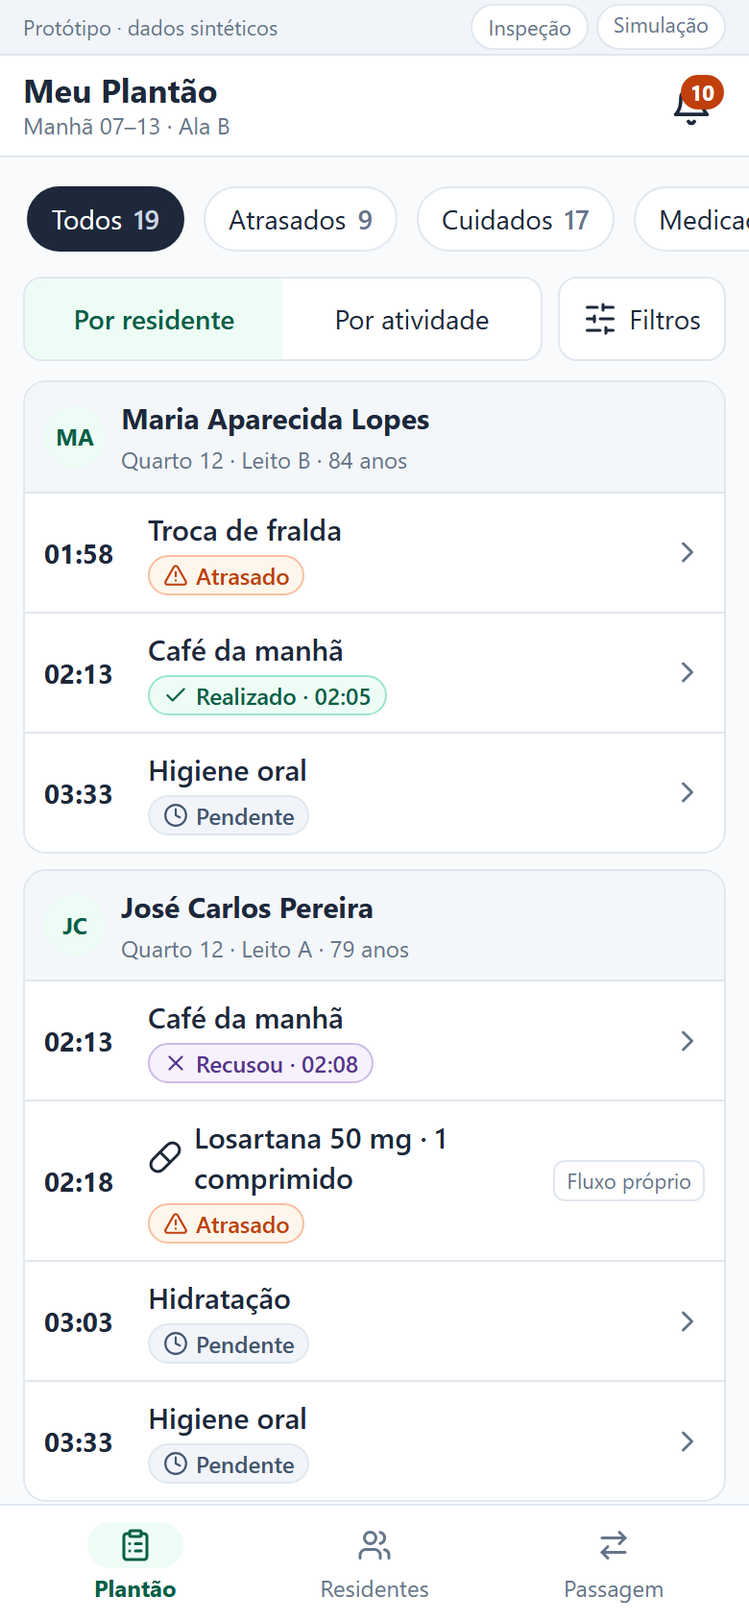
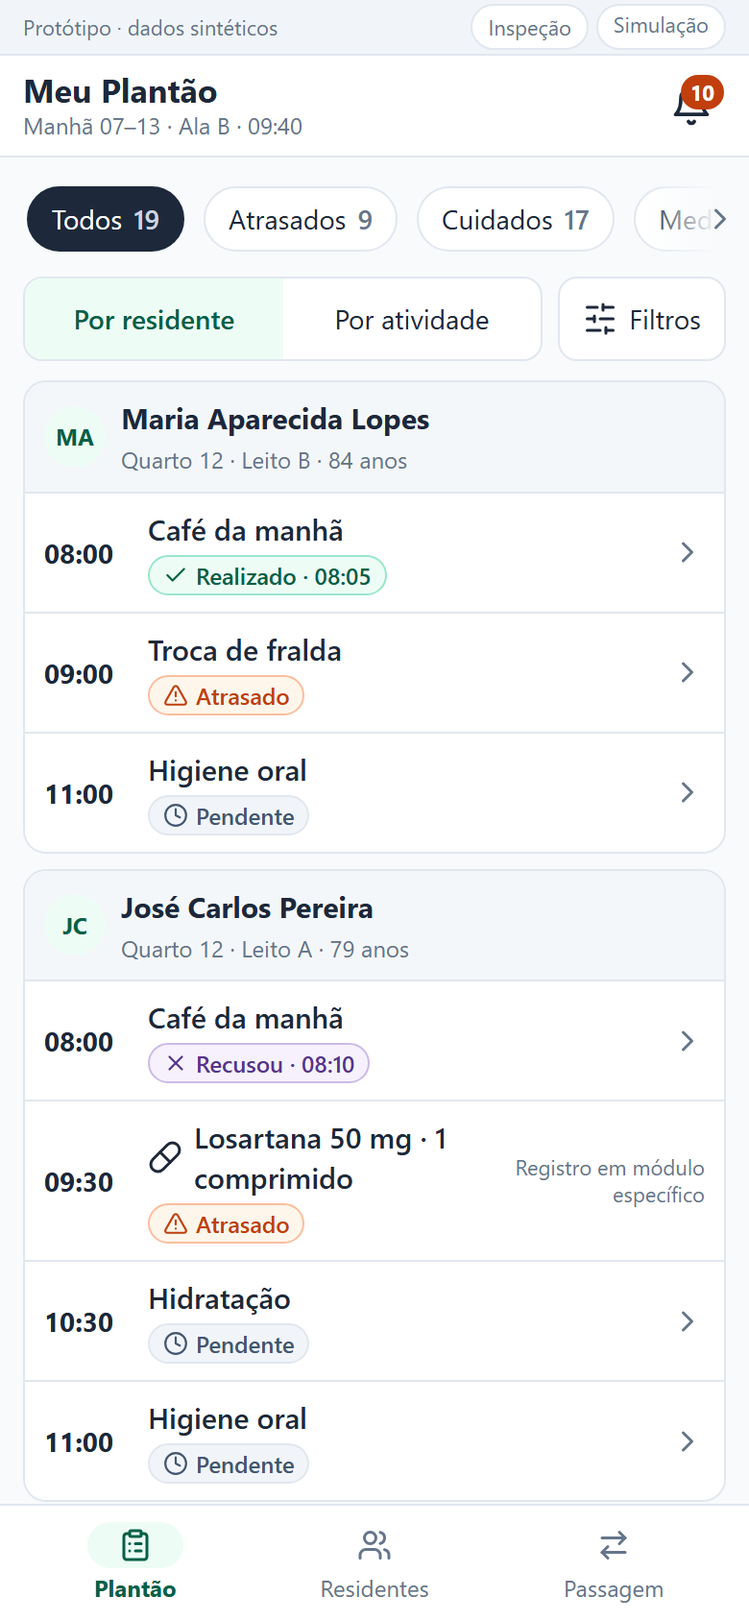
fix(prototipo): ajustes finais de texto, relógio simulado, medicação e passagem (#135)
Quarto e leito em linha própria no registro; "Resultado obrigatório";
"Informe quando o cuidado aconteceu"; "Profissional que auxiliou";
relógio simulado coerente com o turno 07–13 (pendência das 06:00 como
herdada); medicação como "Registro em módulo específico", sem botão;
indicação de deslizamento nos filtros; passagem em linhas curtas com
"Confirmar recebimento" no topo, separado de "Registrar cuidado".
Capturas de Plantão, registro individual e Passagem atualizadas.

diff --git a/prototypes/ux-operacional/app.js b/prototypes/ux-operacional/app.js
@@ -38,12 +38,13 @@
   // ---------- utilidades ----------
   const esc = (s) => String(s == null ? '' : s).replace(/[&<>"']/g, (c) => ({ '&': '&amp;', '<': '&lt;', '>': '&gt;', '"': '&quot;', "'": '&#39;' }[c]));
   const hhmm = (d) => d.toLocaleTimeString('pt-BR', { hour: '2-digit', minute: '2-digit' });
-  const agoraHHMM = () => hhmm(new Date());
+  const agora = () => D.relogio(); // relógio simulado (data.js)
+  const agoraHHMM = () => hhmm(agora());
   function fromHHMM(v) {
     if (!/^\d{2}:\d{2}$/.test(v || '')) return null;
-    const d = new Date(); const [h, m] = v.split(':').map(Number); d.setHours(h, m, 0, 0); return d;
+    const d = agora(); const [h, m] = v.split(':').map(Number); d.setHours(h, m, 0, 0); return d;
   }
-  const noFuturo = (d) => d && d.getTime() <= Date.now() + 60000;
+  const noFuturo = (d) => d && d.getTime() <= agora().getTime() + 60000;
   const res = (id) => D.residentes.find((r) => r.id === id);
   const pessoa = (id) => D.equipe.find((p) => p.id === id);
   const item = (id) => db.itens.find((i) => i.id === id);
@@ -71,7 +72,7 @@
   function status(i) {
     const r = db.registros[i.id];
     if (r) return { tipo: 'registrado', reg: r };
-    return { tipo: i.prevista.getTime() < Date.now() ? 'atrasado' : 'pendente' };
+    return { tipo: i.prevista.getTime() < agora().getTime() ? 'atrasado' : 'pendente' };
   }
   function estadoTexto(i) {
     const s = status(i);
@@ -124,7 +125,7 @@
           if (modo === 'antes') return reject(new Error('rede'));
           const existente = db.registros[itemId];
           if (existente) return resolve({ jaExistia: true, reg: existente });
-          const reg = Object.assign({}, payload, { registradoEm: new Date(), executor: 'f1', idem });
+          const reg = Object.assign({}, payload, { registradoEm: agora(), executor: 'f1', idem });
           db.registros[itemId] = reg;
           if (modo === 'resposta') return reject(new Error('rede'));
           resolve({ jaExistia: false, reg });
@@ -176,6 +177,8 @@
   function renderCromo(r, base) {
     const titulos = { plantao: 'Meu Plantão', residentes: 'Residentes', passagem: 'Passagem de plantão' };
     $('#page-title').textContent = titulos[base] || 'Meu Plantão';
+    $('#page-sub').textContent = `Manhã 07–13 · Ala B · ${agoraHHMM()}`;
+    $('#page-sub').title = 'Relógio simulado do protótipo';
     document.title = (titulos[base] || 'Meu Plantão') + ' · Protótipo FacILPI';
     const n = notificacoes().total;
     const sino = $('#btn-sino');
@@ -217,7 +220,7 @@
   function listaHTML() {
     const nExtra = filtrosExtras();
     let html = `<div class="toolbar">
-      <div class="chips" id="chips" role="group" aria-label="Filtros rápidos">${chipsHTML()}</div>
+      <div class="chips-wrap" id="chips-wrap"><div class="chips" id="chips" role="group" aria-label="Filtros rápidos (deslize para ver mais)">${chipsHTML()}</div><span class="chips-seta" aria-hidden="true">${icon('chevron')}</span></div>
       <div class="toolbar-row">
         <div class="seg" role="group" aria-label="Organizar lista">
           <button type="button" id="vis-residente" data-visao="residente" aria-pressed="${ui.visao === 'residente'}">Por residente</button>
@@ -252,7 +255,7 @@
       lista.filter((i) => i.origem === 'cuidado').forEach((i) => { (grupos[grupoKey(i)] = grupos[grupoKey(i)] || []).push(i); });
       html += Object.entries(grupos).map(([k, its]) => grupoHTML(k, its)).join('');
       const meds = lista.filter((i) => i.origem === 'medicacao');
-      if (meds.length) html += `<h2 class="section-title">Medicação · fluxo próprio</h2><div class="rcard">${meds.map((i) => rowHTML(i, true)).join('')}</div>`;
+      if (meds.length) html += `<h2 class="section-title">Medicação · registro em módulo específico</h2><div class="rcard">${meds.map((i) => rowHTML(i, true)).join('')}</div>`;
     }
     return html;
   }
@@ -263,14 +266,15 @@
     const sub = [];
     if (comNome) sub.push(`${r.nome} · Q${r.quarto}·${r.leito}`);
     if (i.herdada) sub.push(`Herdada da ${i.herdada}`);
-    const alvo = med ? `data-med="${i.id}"` : `data-open="${i.id}"`;
-    const rotulo = `${i.atividade}, ${r.nome}, previsto ${hhmm(i.prevista)}, ${estadoTexto(i)}${med ? ', medicação: fluxo próprio' : ''}`;
-    return `<button type="button" class="row" id="row-${i.id}" ${alvo} aria-label="${esc(rotulo)}">
+    const rotulo = `${i.atividade}, ${r.nome}, previsto ${hhmm(i.prevista)}, ${estadoTexto(i)}${med ? ', registro em módulo específico' : ''}`;
+    const abre = med
+      ? `<div class="row row-static" id="row-${i.id}" role="group" aria-label="${esc(rotulo)}">`
+      : `<button type="button" class="row" id="row-${i.id}" data-open="${i.id}" aria-label="${esc(rotulo)}">`;
+    return `${abre}
       <span class="row-time">${hhmm(i.prevista)}</span>
       <span class="row-main"><span class="row-title">${med ? icon('pill') : ''}${esc(i.atividade)}</span>
         ${sub.length ? `<span class="row-sub">${esc(sub.join(' · '))}</span>` : ''}<span>${badge(i)}</span></span>
-      ${med ? '<span class="row-tag">Fluxo próprio</span>' : icon('chevron', 'chev')}
-    </button>`;
+      ${med ? '<span class="row-note">Registro em módulo específico</span></div>' : icon('chevron', 'chev') + '</button>'}`;
   }
 
   function grupoHTML(k, its) {
@@ -323,7 +327,7 @@
     return null;
   }
   function payloadDe(id, f) {
-    const p = { ocorrencia_id: id, resultado: f.resultado || '(escolha)', ocorrido_em: (fromHHMM(f.hora) || new Date()).toISOString() };
+    const p = { ocorrencia_id: id, resultado: f.resultado || '(escolha)', ocorrido_em: (fromHHMM(f.hora) || agora()).toISOString() };
     const j = justificativa(f); if (j) p.justificativa = j;
     if (f.obs.trim()) p.observacao = f.obs.trim();
     return p;
@@ -331,7 +335,8 @@
   function cabecalho(r, titulo, sub) {
     return `<div class="sh-id"><span class="avatar" aria-hidden="true">${iniciais(r.nome)}</span>
       <div class="sh-txt"><h2 id="sheet-title" tabindex="-1">${esc(titulo)}</h2>
-        <div class="sh-res"><strong>${esc(r.nome)}</strong> · Quarto ${r.quarto} · Leito ${r.leito}</div>
+        <div class="sh-res"><strong>${esc(r.nome)}</strong></div>
+        <div class="sh-loc">Quarto ${r.quarto} · Leito ${r.leito}</div>
         <div class="sh-sub">${sub}</div></div></div>`;
   }
 
@@ -354,7 +359,7 @@
         head,
         body: `<div class="alert alert-ok">${icon('check')}<div><strong>Registrado: ${R.label}</strong>
           <p>Horário real: <strong>${hhmm(reg.ocorridoEm)}</strong> · Registro gravado às ${hhmm(reg.registradoEm)} por ${esc(ex ? ex.nome : '—')}${ex && ex.voce ? ' (você)' : ''}</p>
-          ${reg.justificativa ? `<p>Motivo: ${esc(reg.justificativa)}</p>` : ''}${reg.ajudante ? `<p>Ajudante: ${esc(pessoa(reg.ajudante).nome)}</p>` : ''}${reg.observacao ? `<p>Observação: ${esc(reg.observacao)}</p>` : ''}</div></div>
+          ${reg.justificativa ? `<p>Motivo: ${esc(reg.justificativa)}</p>` : ''}${reg.ajudante ? `<p>Auxiliado por: ${esc(pessoa(reg.ajudante).nome)}</p>` : ''}${reg.observacao ? `<p>Observação: ${esc(reg.observacao)}</p>` : ''}</div></div>
           <p class="hint" style="margin:0">Correção: estorno com motivo, que mantém o registro original visível. ${insp('existe', 'POST /api/execucoes-cuidado/{id}/estornar')} ${insp('proposta', 'tela de estorno')}</p>`,
         foot: `<button type="button" class="btn btn-outline" data-close>Fechar</button>${prox ? `<button type="button" class="btn btn-primary" data-ir="${prox.id}">Próximo pendente</button>` : ''}`,
       };
@@ -368,7 +373,7 @@
     const body = `
       ${f.erro ? `<div class="alert alert-err" id="erro-envio" tabindex="-1" role="alert">${icon('wifiOff')}<div><strong>Não foi possível salvar.</strong><p>${esc(f.erro)} O que você preencheu continua aqui.</p></div></div>` : ''}
       <fieldset>
-        <legend class="legend">Resultado <span class="hint">(obrigatório, nada vem marcado)</span></legend>
+        <legend class="legend">Resultado obrigatório</legend>
         <div class="opts">${opt('executada')}${opt('recusada', 'recusa')}${opt('omitida', 'nao')}</div>
         ${f.erros.resultado ? `<div class="err-txt" id="e-res">${f.erros.resultado}</div>` : ''}
         ${insp('existe', 'executada | recusada | omitida; justificativa obrigatória fora de executada')}
@@ -388,11 +393,11 @@
         <div class="field"><label for="f-hora">Horário real do cuidado</label>
           <div class="time-row"><input type="time" class="input" id="f-hora" data-campo="hora" value="${esc(f.hora)}" ${f.erros.hora ? 'aria-invalid="true" aria-describedby="e-hora"' : 'aria-describedby="h-hora"'} ${dis}>
           <button type="button" class="btn btn-outline btn-sm" id="btn-agora" data-agora ${dis}>Agora</button></div>
-          ${f.erros.hora ? `<div class="err-txt" id="e-hora">${f.erros.hora}</div>` : `<span class="hint" id="h-hora">Quando aconteceu. O horário do registro é gravado pelo servidor.</span>`}
+          ${f.erros.hora ? `<div class="err-txt" id="e-hora">${f.erros.hora}</div>` : `<span class="hint" id="h-hora">Informe quando o cuidado aconteceu.</span>`}
           ${insp('existe', 'ocorrido_em ≠ registrado_em; futuro = 422')}
         </div>
-        <div class="field"><label for="f-ajudante">Ajudante (opcional)</label>
-          <select class="input" id="f-ajudante" data-campo="ajudante" ${dis}><option value="">Sem ajudante</option>
+        <div class="field"><label for="f-ajudante">Profissional que auxiliou (opcional)</label>
+          <select class="input" id="f-ajudante" data-campo="ajudante" ${dis}><option value="">Sem auxílio</option>
           ${ajudantes.map((p) => `<option value="${p.id}" ${f.ajudante === p.id ? 'selected' : ''}>${esc(p.nome)} · ${esc(p.funcao)}</option>`).join('')}</select>
           ${insp('proposta', 'campo novo; exige migration (ExecucaoCuidado não tem ajudante)')}
         </div>
@@ -511,7 +516,7 @@
           ${l.motivoCod === 'outro' ? `<div class="field"><label for="md-${i.id}">Detalhe (obrigatório)</label><input class="input" id="md-${i.id}" data-linha-campo="detalhe" data-linha="${i.id}" value="${esc(l.detalhe)}" ${l.erros.detalhe ? 'aria-invalid="true"' : ''} ${dis}>${l.erros.detalhe ? `<div class="err-txt">${l.erros.detalhe}</div>` : ''}</div>` : ''}` : ''}
         ${l.resultado ? `<div class="crow-extra">
           <div class="field"><label for="h-${i.id}">Horário</label><input type="time" class="input" id="h-${i.id}" data-linha-campo="hora" data-linha="${i.id}" value="${esc(l.hora || c.padrao)}" ${l.erros.hora ? 'aria-invalid="true"' : ''} ${dis}>${l.erros.hora ? `<div class="err-txt">${l.erros.hora}</div>` : ''}</div>
-          <div class="field"><label for="a-${i.id}">Ajudante</label><select class="input" id="a-${i.id}" data-linha-campo="ajudante" data-linha="${i.id}" ${dis}><option value="">Sem ajudante</option>${ajudantes.map((p) => `<option value="${p.id}" ${l.ajudante === p.id ? 'selected' : ''}>${esc(p.nome)}</option>`).join('')}</select></div>
+          <div class="field"><label for="a-${i.id}">Profissional que auxiliou</label><select class="input" id="a-${i.id}" data-linha-campo="ajudante" data-linha="${i.id}" ${dis}><option value="">Sem auxílio</option>${ajudantes.map((p) => `<option value="${p.id}" ${l.ajudante === p.id ? 'selected' : ''}>${esc(p.nome)}</option>`).join('')}</select></div>
         </div>
         <div><button type="button" class="link-btn" id="limpar-${i.id}" data-limpar="${i.id}" ${dis}>Limpar resultado</button> ${insp('proposta', 'ajudante por residente; exige migration')}</div>` : ''}
       </fieldset>`;
@@ -565,6 +570,7 @@
     const P = passagem;
     const recebida = P.situacao === 'recebida';
     const linhaRes = (rid) => { const r = res(rid); return `<span class="row-title">${esc(r.nome)}</span><span class="row-sub">Quarto ${r.quarto} · Leito ${r.leito}</span>`; };
+    const kv = (pares) => `<dl class="kv">${pares.map(([k, v]) => `<div><dt>${k}</dt><dd>${v}</dd></div>`).join('')}</dl>`;
     const pendAbertas = P.pendencias.filter((p) => !db.registros[p.itemId]).length;
     let html = `<h2 class="section-title" style="margin-top:4px">Passagem a receber</h2>
       <section class="card pass-card" aria-label="Passagem da ${esc(P.turno)}">
@@ -572,29 +578,29 @@
           <div><div class="rname">${esc(P.turno)} · ${esc(P.area)}</div><div class="rmeta">Entregue por ${esc(pessoa(P.entreguePor).nome)} às ${hhmm(P.entregueEm)}</div></div>
           ${recebida ? `<span class="badge b-ok">${icon('check')}Recebida às ${hhmm(P.recebidaEm)}</span>` : `<span class="badge b-atrasado">${icon('clock')}Aguardando recebimento</span>`}
         </div>
+        <div class="receipt">
+          ${recebida
+            ? `<div class="alert alert-ok" id="recibo" tabindex="-1">${icon('check')}<div><strong>Recebimento confirmado às ${hhmm(P.recebidaEm)}.</strong><p>${pendAbertas ? `${pendAbertas} pendência${pendAbertas > 1 ? 's continuam abertas' : ' continua aberta'} no seu Meu Plantão. Receber não conclui cuidados.` : 'Todas as pendências herdadas já têm registro.'}</p></div></div>`
+            : `<p style="margin:0;font-size:14px">Leia a passagem e confirme o recebimento. <strong>Confirmar não conclui</strong> nenhuma pendência: elas continuam no seu Meu Plantão.</p>
+               <button type="button" class="btn btn-primary btn-receber" id="btn-receber" data-receber>${icon('check')}Confirmar recebimento</button>`}
+          ${insp('existe', 'POST /api/passagens/{id}/receber · quem entregou não recebe · 2º recebimento = 409')}
+        </div>
         ${insp('existe', 'GET /api/passagens/ (itens automáticos + notas)')}
         <h3 class="section-title">Pendências herdadas</h3>
         ${P.pendencias.map((p) => {
           const i = item(p.itemId); const reg = db.registros[p.itemId];
-          return `<div class="pass-line"><div class="row-main">${linhaRes(p.residenteId)}<span>${esc(i.atividade)} · prevista ${hhmm(i.prevista)} · ${esc(p.texto)}</span>
-            <span class="row-sub">Responsável: ${esc(p.responsavel)} · Prazo: ${esc(p.prazo)}</span></div>
-            ${reg ? `<span class="badge ${RESULTADOS[reg.resultado].cls}">${icon('check')}Registrado ${hhmm(reg.ocorridoEm)}</span>`
-              : `<span class="badge b-atrasado">${icon('alert')}Continua pendente</span><button type="button" class="btn btn-outline btn-sm" data-open="${p.itemId}" id="pass-reg-${p.itemId}">Registrar</button>`}</div>`;
+          return `<div class="pass-item"><div class="pass-head"><div class="row-main">${linhaRes(p.residenteId)}</div>
+              ${reg ? `<span class="badge ${RESULTADOS[reg.resultado].cls}">${icon('check')}Registrado ${hhmm(reg.ocorridoEm)}</span>` : `<span class="badge b-atrasado">${icon('alert')}Continua pendente</span>`}</div>
+            ${kv([['Atividade', esc(i.atividade)], ['Previsto', `${hhmm(i.prevista)} · ${esc(p.texto)}`], ['Responsável', esc(p.responsavel)], ['Prazo', esc(p.prazo)]])}
+            ${reg ? '' : `<div class="pass-acoes"><button type="button" class="btn btn-outline btn-sm" data-open="${p.itemId}" id="pass-reg-${p.itemId}">Registrar cuidado</button></div>`}</div>`;
         }).join('')}
         <h3 class="section-title">Intercorrências em aberto</h3>
-        ${P.intercorrencias.map((x) => `<div class="pass-line"><div class="row-main">${linhaRes(x.residenteId)}<span>${esc(x.texto)}</span>
-          <span class="row-sub">Responsável: ${esc(x.responsavel)} · ${esc(x.prazo)}</span></div><span class="badge b-crit">${icon('alert')}Em aberto</span></div>`).join('')}
+        ${P.intercorrencias.map((x) => `<div class="pass-item"><div class="pass-head"><div class="row-main">${linhaRes(x.residenteId)}</div><span class="badge b-crit">${icon('alert')}Em aberto</span></div>
+          ${kv([['Ocorrência', `${esc(x.texto)} · ${esc(x.quando)}`], ['Situação', esc(x.detalhe)], ['Responsável', esc(x.responsavel)], ['Prazo', esc(x.prazo)]])}</div>`).join('')}
         <h3 class="section-title">Ausências</h3>
         ${P.ausencias.map((x) => `<div class="pass-line"><div class="row-main">${linhaRes(x.residenteId)}<span>${esc(x.texto)}</span></div><span class="badge b-info">${icon('away')}Ausente</span></div>`).join('')}
         <h3 class="section-title">Notas do turno</h3>
         ${P.notas.map((n) => `<div class="pass-line"><div class="row-main"><span><span class="badge b-pendente">${esc(n.categoria)}</span> ${esc(n.texto)}</span></div></div>`).join('')}
-        <div class="receipt">
-          ${recebida
-            ? `<div class="alert alert-ok" id="recibo" tabindex="-1">${icon('check')}<div><strong>Recebimento confirmado às ${hhmm(P.recebidaEm)}.</strong><p>${pendAbertas ? `${pendAbertas} pendência${pendAbertas > 1 ? 's continuam abertas' : ' continua aberta'} no seu Meu Plantão. Receber não conclui cuidados.` : 'Todas as pendências herdadas já têm registro.'}</p></div></div>`
-            : `<p style="margin:0;font-size:14px"><strong>Confirmar recebimento</strong> registra que você leu esta passagem. <strong>Não conclui</strong> nenhuma pendência: elas continuam no seu Meu Plantão.</p>
-               <div><button type="button" class="btn btn-primary" id="btn-receber" data-receber>Confirmar recebimento</button></div>`}
-          ${insp('existe', 'POST /api/passagens/{id}/receber · quem entregou não recebe · 2º recebimento = 409')}
-        </div>
       </section>`;
     const meus = db.itens.filter((i) => i.origem === 'cuidado' && !db.registros[i.id]).sort((a, b) => a.prevista - b.prevista);
     const atras = meus.filter((i) => status(i).tipo === 'atrasado').length;
@@ -709,6 +715,7 @@
     if (nome === 'passagem') view.innerHTML = passagemHTML();
     else if (nome === 'residentes') view.innerHTML = residentesHTML();
     else view.innerHTML = `<div class="split"><div class="split-list" id="lista" aria-label="Lista do plantão">${listaHTML()}</div><div class="split-detail" id="detalhe"></div></div>`;
+    requestAnimationFrame(marcarChips);
   }
   function render() {
     const r = rota();
@@ -752,7 +759,11 @@
     window.scrollTo(0, y);
     if (ativo && !sheetTipo) { const el = document.getElementById(ativo); if (el) el.focus({ preventScroll: true }); }
   }
-  const rerenderLista = () => preservando(() => { const el = $('#lista'); if (el) el.innerHTML = listaHTML(); });
+  function marcarChips() {
+    const c = $('#chips'); const w = $('#chips-wrap'); if (!c || !w) return;
+    w.classList.toggle('mais', c.scrollLeft + c.clientWidth < c.scrollWidth - 4);
+  }
+  const rerenderLista = () => { preservando(() => { const el = $('#lista'); if (el) el.innerHTML = listaHTML(); }); marcarChips(); };
   const rerenderBase = () => preservando(() => renderBase(renderedBase));
 
   // Atualiza só o que depende do item salvo: linha, grupo, contadores, sino. A posição da lista não muda.
@@ -760,7 +771,7 @@
   function atualizarItem(id) {
     renderCromo(rota(), renderedBase);
     if (renderedBase !== 'plantao') { rerenderBase(); return; }
-    const chips = $('#chips'); if (chips) chips.innerHTML = chipsHTML();
+    const chips = $('#chips'); if (chips) { chips.innerHTML = chipsHTML(); marcarChips(); }
     const i = item(id);
     const row = $('#row-' + id);
     if (row) { row.outerHTML = rowHTML(i, ui.visao === 'atividade'); flash($('#row-' + id)); }
@@ -857,12 +868,12 @@
     if (b.hasAttribute('data-receber')) {
       const abertas = passagem.pendencias.filter((p) => !db.registros[p.itemId]).length;
       const ok = await dialogo('Confirmar recebimento?', `<p>Você confirma que leu a passagem da <strong>${esc(passagem.turno)}</strong>.</p><p>${abertas ? `${abertas} pendência${abertas > 1 ? 's continuam abertas' : ' continua aberta'} e sob responsabilidade do seu turno.` : ''} Nenhum cuidado será marcado como realizado.</p>`, 'Confirmar recebimento');
-      if (ok) { passagem.situacao = 'recebida'; passagem.recebidaEm = new Date(); rerenderBase(); renderCromo(rota(), renderedBase); const rc = $('#recibo'); if (rc) rc.focus(); }
+      if (ok) { passagem.situacao = 'recebida'; passagem.recebidaEm = agora(); rerenderBase(); renderCromo(rota(), renderedBase); const rc = $('#recibo'); if (rc) rc.focus(); }
       return;
     }
     if (b.hasAttribute('data-entregar')) {
       minhaPassagem.status = 'saving'; rerenderBase();
-      setTimeout(() => { minhaPassagem.status = 'idle'; minhaPassagem.entregueEm = new Date(); rerenderBase(); anunciar('Passagem entregue.'); }, 700);
+      setTimeout(() => { minhaPassagem.status = 'idle'; minhaPassagem.entregueEm = agora(); rerenderBase(); anunciar('Passagem entregue.'); }, 700);
     }
   });
 
@@ -918,6 +929,10 @@
       setTimeout(() => e.target.scrollIntoView({ block: 'nearest' }), 250);
     }
   });
+
+  document.addEventListener('scroll', (e) => { if (e.target && e.target.id === 'chips') marcarChips(); }, true);
+  window.addEventListener('resize', marcarChips);
+  setInterval(() => { if (!sheetTipo) renderCromo(rota(), renderedBase); }, 30000);
 
   // Controles do protótipo
   $('#btn-inspecao').addEventListener('click', (e) => { const on = document.body.classList.toggle('inspect'); e.currentTarget.setAttribute('aria-pressed', String(on)); });

diff --git a/prototypes/ux-operacional/data.js b/prototypes/ux-operacional/data.js
@@ -1,9 +1,12 @@
 // Dados 100% sintéticos. Nomes fictícios; nenhuma relação com pessoas reais.
-// Horários são gerados relativos ao momento de abertura do protótipo.
+// Relógio simulado: o protótipo começa às 09:40 do turno Manhã 07–13 e avança no ritmo real a partir daí,
+// para que os estados de atraso sejam coerentes em qualquer horário em que for aberto.
 (function () {
-  const agora = new Date();
-  agora.setSeconds(0, 0);
-  const min = (m) => new Date(agora.getTime() + m * 60000);
+  const inicioSimulado = new Date();
+  inicioSimulado.setHours(9, 40, 0, 0);
+  const abertoEm = Date.now();
+  const relogio = () => new Date(inicioSimulado.getTime() + (Date.now() - abertoEm));
+  const as = (h, m) => { const d = new Date(inicioSimulado); d.setHours(h, m, 0, 0); return d; };
 
   const equipe = [
     { id: 'f1', nome: 'Ana Souza', funcao: 'Cuidadora', emPlantao: true, voce: true },
@@ -21,25 +24,26 @@
     { id: 'r6', nome: 'Sebastião Nunes', quarto: '15', leito: 'B', idade: 82, ausente: 'Consulta externa · retorno previsto 11:00' },
   ];
 
-  // origem: 'cuidado' (formulário de cuidado) | 'medicacao' (fluxo próprio, só referência)
+  // origem: 'cuidado' (formulário de cuidado) | 'medicacao' (registro em módulo específico, só referência)
+  // Tudo dentro do turno 07–13, exceto a pendência herdada da noite (06:00).
   const itens = [];
   let seq = 1;
   const add = (residenteId, atividade, origem, prevista, extra) =>
     itens.push(Object.assign({ id: 'o' + seq++, residenteId, atividade, origem, prevista }, extra || {}));
 
-  ['r1', 'r2', 'r3', 'r4', 'r5', 'r6'].forEach((r) => add(r, 'Café da manhã', 'cuidado', min(-10), { grupo: 'cafe' }));
-  add('r3', 'Troca de fralda', 'cuidado', min(-95), { herdada: 'Noite 19–07' });
-  ['r1', 'r3', 'r4'].forEach((r) => add(r, 'Troca de fralda', 'cuidado', min(-25)));
-  ['r3', 'r4'].forEach((r) => add(r, 'Mudança de decúbito', 'cuidado', min(15), { grupo: 'decubito' }));
-  ['r2', 'r5', 'r6'].forEach((r) => add(r, 'Hidratação', 'cuidado', min(40), { grupo: 'hidratacao' }));
-  ['r1', 'r2'].forEach((r) => add(r, 'Higiene oral', 'cuidado', min(70), { grupo: 'higiene' }));
-  add('r2', 'Losartana 50 mg · 1 comprimido', 'medicacao', min(-5));
-  add('r5', 'Metformina 500 mg · 1 comprimido', 'medicacao', min(30));
+  ['r1', 'r2', 'r3', 'r4', 'r5', 'r6'].forEach((r) => add(r, 'Café da manhã', 'cuidado', as(8, 0), { grupo: 'cafe' }));
+  add('r3', 'Troca de fralda', 'cuidado', as(6, 0), { herdada: 'Noite 19–07' });
+  ['r1', 'r3', 'r4'].forEach((r) => add(r, 'Troca de fralda', 'cuidado', as(9, 0)));
+  ['r3', 'r4'].forEach((r) => add(r, 'Mudança de decúbito', 'cuidado', as(10, 0), { grupo: 'decubito' }));
+  ['r2', 'r5', 'r6'].forEach((r) => add(r, 'Hidratação', 'cuidado', as(10, 30), { grupo: 'hidratacao' }));
+  ['r1', 'r2'].forEach((r) => add(r, 'Higiene oral', 'cuidado', as(11, 0), { grupo: 'higiene' }));
+  add('r2', 'Losartana 50 mg · 1 comprimido', 'medicacao', as(9, 30));
+  add('r5', 'Metformina 500 mg · 1 comprimido', 'medicacao', as(12, 0));
 
   // Dois registros já existentes no café da manhã.
   const registros = {
-    o1: { resultado: 'executada', ocorridoEm: min(-18), registradoEm: min(-16), executor: 'f2', ajudante: null, justificativa: null, observacao: null, idem: 'seed-1' },
-    o2: { resultado: 'recusada', ocorridoEm: min(-15), registradoEm: min(-14), executor: 'f2', ajudante: null, justificativa: 'Disse estar sem fome; aceitou suco.', observacao: null, idem: 'seed-2' },
+    o1: { resultado: 'executada', ocorridoEm: as(8, 5), registradoEm: as(8, 7), executor: 'f2', ajudante: null, justificativa: null, observacao: null, idem: 'seed-1' },
+    o2: { resultado: 'recusada', ocorridoEm: as(8, 10), registradoEm: as(8, 12), executor: 'f2', ajudante: null, justificativa: 'Disse estar sem fome; aceitou suco.', observacao: null, idem: 'seed-2' },
   };
 
   const herdada = itens.find((i) => i.herdada);
@@ -48,17 +52,17 @@
     turno: 'Noite 19–07',
     area: 'Ala B',
     entreguePor: 'f4',
-    entregueEm: min(-120),
+    entregueEm: as(7, 5),
     situacao: 'entregue',
     pendencias: [
-      { itemId: herdada.id, texto: 'Sem registro no turno anterior', residenteId: 'r3', responsavel: 'Turno da manhã · Ala B', prazo: '09:00' },
+      { itemId: herdada.id, texto: 'Sem registro no turno anterior', residenteId: 'r3', responsavel: 'Turno da manhã · Ala B', prazo: 'até 10:00' },
     ],
     intercorrencias: [
-      { residenteId: 'r4', texto: 'Queda sem lesão aparente às 03:40 · gravidade moderada · em observação', responsavel: 'Carla Mendes (téc. de enfermagem)', prazo: 'reavaliar até 10:00' },
+      { residenteId: 'r4', texto: 'Queda sem lesão aparente', quando: '03:40', detalhe: 'Gravidade moderada · em observação', responsavel: 'Carla Mendes (téc. de enfermagem)', prazo: 'reavaliar até 10:00' },
     ],
     ausencias: [{ residenteId: 'r6', texto: 'Consulta externa · retorno previsto 11:00' }],
     notas: [{ categoria: 'Alimentação', texto: 'Maria Aparecida recusou a ceia; oferecer lanche reforçado no café.' }],
   };
 
-  window.PROTO_DATA = { agora, equipe, residentes, itens, registros, passagemRecebida };
+  window.PROTO_DATA = { relogio, agora: inicioSimulado, equipe, residentes, itens, registros, passagemRecebida };
 })();

diff --git a/prototypes/ux-operacional/styles.css b/prototypes/ux-operacional/styles.css
@@ -168,8 +168,15 @@ textarea.input { min-height: 64px; resize: vertical; }
 
 /* ---------- Lista do plantão ---------- */
 .section-title { font-size: 12px; font-weight: 700; text-transform: uppercase; letter-spacing: .04em; color: hsl(var(--muted-foreground)); margin: 14px 2px 6px; }
-.toolbar { display: grid; gap: 8px; margin-bottom: 10px; }
-.chips { display: flex; gap: 6px; overflow-x: auto; scrollbar-width: none; margin: 0 -12px; padding: 0 12px; }
+.toolbar { display: grid; grid-template-columns: minmax(0, 1fr); gap: 8px; margin-bottom: 10px; }
+.chips-wrap { position: relative; margin: 0 -12px; min-width: 0; }
+.chips { display: flex; gap: 6px; overflow-x: auto; scrollbar-width: none; padding: 0 12px; scroll-padding: 0 12px; }
+/* Indica que a faixa desliza: degradê e seta à direita só quando há opções fora da tela. */
+.chips-wrap::after { content: ""; position: absolute; top: 0; right: 0; bottom: 0; width: 56px; pointer-events: none;
+  background: linear-gradient(to right, hsl(var(--background) / 0), hsl(var(--background)) 70%); opacity: 0; transition: opacity var(--dur); }
+.chips-seta { position: absolute; right: 6px; top: 50%; transform: translateY(-50%); z-index: 1; display: flex; pointer-events: none;
+  color: hsl(var(--muted-foreground)); opacity: 0; transition: opacity var(--dur); }
+.chips-wrap.mais::after, .chips-wrap.mais .chips-seta { opacity: 1; }
 .chips::-webkit-scrollbar { display: none; }
 .chip {
   flex: none; min-height: var(--touch); padding: 0 2px; border: 0; background: none; cursor: pointer; display: inline-flex; align-items: center;
@@ -348,3 +355,19 @@ dialog h2 { font-size: 18px; }
 
 /* Modo de captura estática (?captura) */
 .captura *, .captura *::before, .captura *::after { animation: none !important; transition: none !important; }
+
+/* Ajustes finais */
+.sh-loc { font-size: 14px; color: hsl(var(--muted-foreground)); white-space: nowrap; }
+.row-static { cursor: default; }
+.row-static:hover, .row-static:active { background: hsl(var(--card)); }
+.row-note { flex: none; max-width: 104px; font-size: 11px; line-height: 1.25; color: hsl(var(--muted-foreground)); text-align: right; }
+.pass-item { padding: 12px 0; border-top: 1px solid hsl(var(--border)); }
+.section-title + .pass-item { border-top: 0; }
+.pass-head { display: flex; gap: 8px; align-items: flex-start; justify-content: space-between; }
+.kv { margin: 6px 0 0; display: grid; gap: 3px; }
+.kv > div { display: flex; gap: 8px; font-size: 14px; }
+.kv dt { flex: none; width: 92px; color: hsl(var(--muted-foreground)); }
+.kv dd { margin: 0; min-width: 0; overflow-wrap: anywhere; }
+.pass-acoes { display: flex; justify-content: flex-end; margin-top: 8px; }
+.btn-receber { width: 100%; }
+@media (min-width: 640px) { .btn-receber { width: auto; justify-self: start; } }
